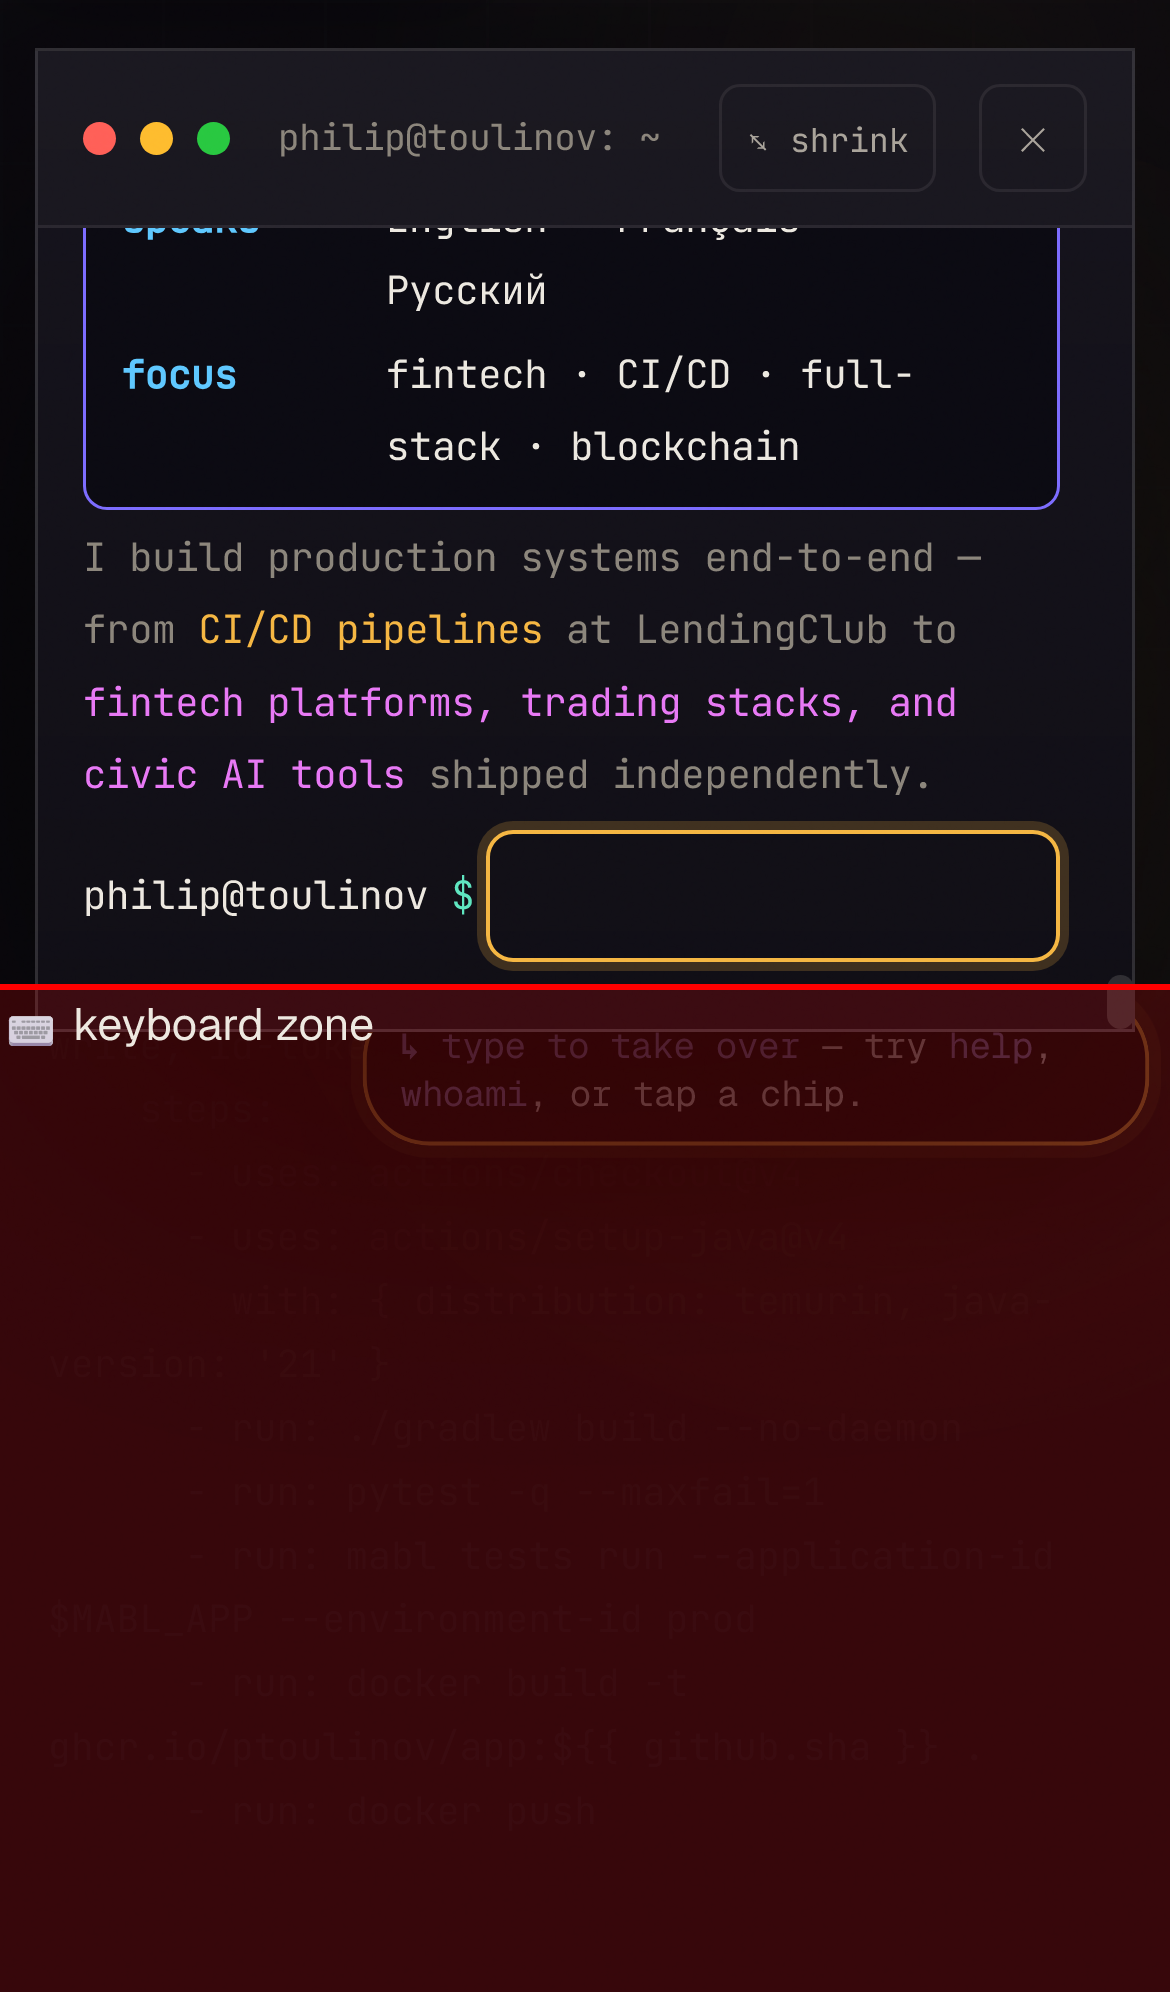
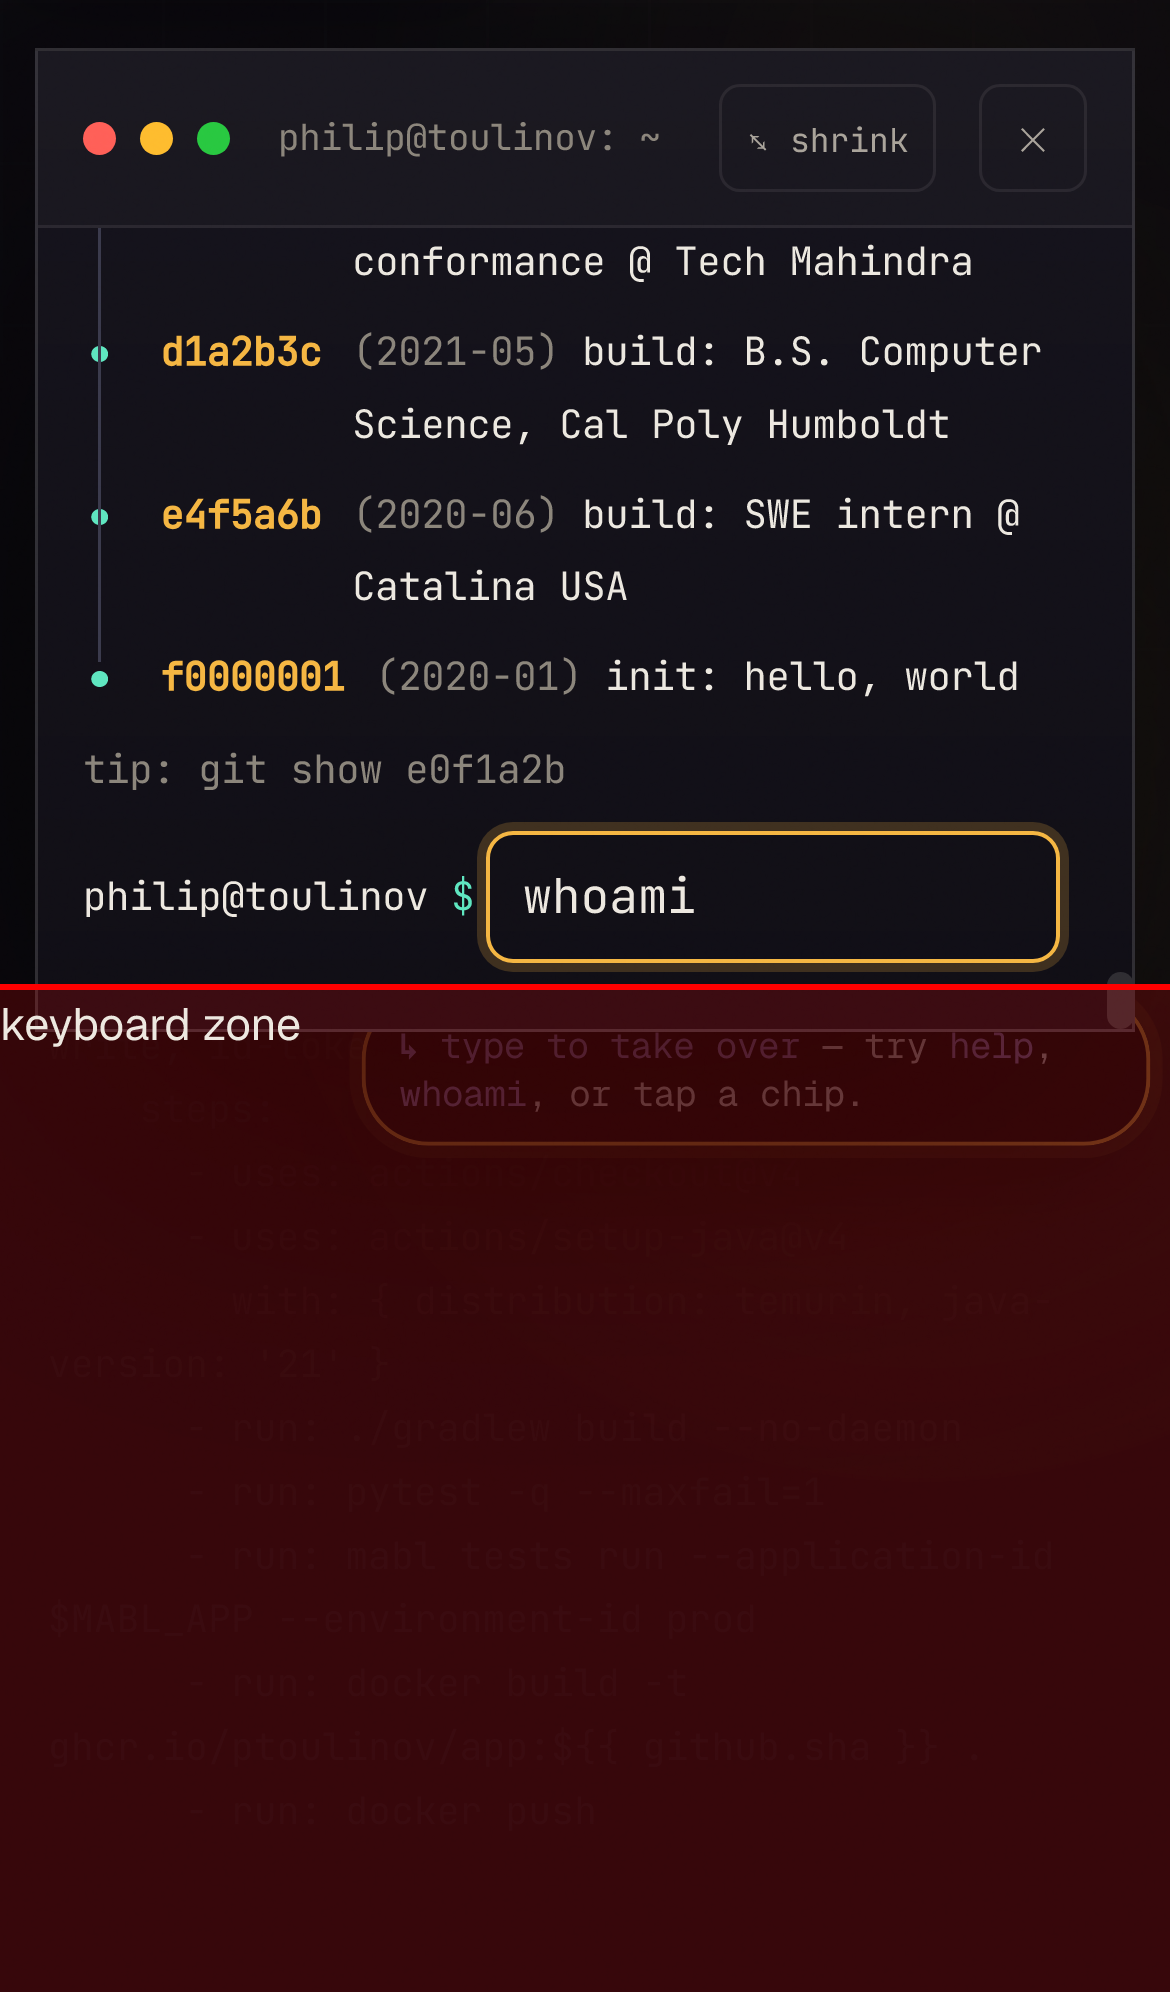
Terminal: stick the input to the scroll bottom (race-free keyboard fix)
Follow-up to the JS-pin keyboard fix, which was timing-fragile: it raced the
soft keyboard's multi-step open animation and could leave the input floating
mid-shell. Replace it with the structural fix — `.terminal__line` gets
`position:sticky; bottom:0` while the shell is height-constrained (floating
overlay or .kbd-term keyboard mode), so the input stays glued to the bottom of
the scroll viewport, above the keyboard, regardless of scroll position or
reflow timing. No JS race.

termKeyboardFit keeps only a one-shot output nudge-to-bottom on keyboard open
(so the latest lines sit just above the input); the brittle stickKbd listener
+ per-resize pinning are gone. Verified with the fake-visualViewport harness:
input visible on open AND while scrolling the output up (the sticky guarantee
the old pin couldn't give).

diff --git a/scripts/main.js b/scripts/main.js
@@ -2198,21 +2198,16 @@ function initTerminal(){
     // a soft keyboard shrinks visualViewport — but so does pinch-zoom; only treat it as the
     // keyboard when NOT pinch-zoomed (scale ~1), so zooming can't false-trigger keyboard mode.
     var kbOpen = function(){ return (vv.scale || 1) <= 1.05 && (window.innerHeight - vv.height) > 120; };
-    // the input is the LAST child INSIDE #heroTermScroll, so it's only visible at the bottom. The soft
-    // keyboard shrinks the shell in several resize steps, each undoing an earlier scroll — so keep the
-    // input pinned to the bottom while the keyboard is up. `stickKbd` releases the moment the user
-    // scrolls up to read history (and re-engages when they return to the bottom). rAF so scrollHeight is
-    // read after the new height lays out.
-    var stickKbd = false;
-    // rAF handles the settled case; the short timeout re-pins after the keyboard's RAPID multi-step
-    // resize animation finishes laying out (a single rAF reads a stale scrollHeight mid-animation).
-    var pinBottom = function(){ if (!scroll || !stickKbd) return;
-      requestAnimationFrame(function(){ if (stickKbd) scroll.scrollTop = scroll.scrollHeight; });
-      setTimeout(function(){ if (stickKbd) scroll.scrollTop = scroll.scrollHeight; }, 140); };
-    function size(){ term.style.top = (vv.offsetTop || 0) + 'px'; term.style.height = vv.height + 'px'; pinBottom(); }
-    function activate(){ active = true; stickKbd = true; root.classList.add('kbd-term');
-      try { if (typeof lenis !== 'undefined' && lenis) lenis.stop(); } catch (e) {} size(); }
-    function deactivate(){ active = false; stickKbd = false; root.classList.remove('kbd-term');
+    function size(){ term.style.top = (vv.offsetTop || 0) + 'px'; term.style.height = vv.height + 'px'; }
+    // the input row is CSS-stuck to the bottom of #heroTermScroll (see .terminal__line), so it stays
+    // visible above the keyboard no matter what. On open, also nudge the OUTPUT to the bottom so the
+    // latest lines sit just above the input (rAF + a settle timeout for the keyboard's reflow).
+    var pinOutput = function(){ if (!scroll) return;
+      requestAnimationFrame(function(){ scroll.scrollTop = scroll.scrollHeight; });
+      setTimeout(function(){ scroll.scrollTop = scroll.scrollHeight; }, 180); };
+    function activate(){ active = true; root.classList.add('kbd-term');
+      try { if (typeof lenis !== 'undefined' && lenis) lenis.stop(); } catch (e) {} size(); pinOutput(); }
+    function deactivate(){ active = false; root.classList.remove('kbd-term');
       term.style.top = ''; term.style.height = '';
       try { if (typeof lenis !== 'undefined' && lenis) lenis.start(); } catch (e) {} }
     function update(){
@@ -2223,8 +2218,6 @@ function initTerminal(){
     input.addEventListener('blur', function(){ want = false; deactivate(); });
     vv.addEventListener('resize', update);
     vv.addEventListener('scroll', update);
-    // release the keyboard-stick when the user scrolls up to read; re-engage at the bottom
-    if (scroll) scroll.addEventListener('scroll', function(){ if (active) stickKbd = (scroll.scrollHeight - scroll.scrollTop - scroll.clientHeight) < 60; }, { passive: true });
   })();
 
   // collapse the big ASCII name banner while the visitor is typing — clearer view of the live shell

diff --git a/styles/main.css b/styles/main.css
@@ -861,6 +861,12 @@ body.rollback::before{ content:"⟲ rollback mode · git revert HEAD~1 — press
 .heroterm.is-floating .term-chips,
 .heroterm.is-floating .heroterm__banner{ flex:0 0 auto; }
 .heroterm.is-floating .terminal__scroll{ height:auto; flex:1 1 auto; min-height:64px; }
+/* the input is the last child INSIDE the scroll, so when the shell is height-constrained (floating
+   overlay, or the soft keyboard via .kbd-term) stick it to the bottom of the scroll viewport — it
+   stays visible above the keyboard regardless of scroll position, with no JS pin to race the reflow. */
+.heroterm.is-floating .terminal__line,
+html.kbd-term #heroTerm .terminal__line{ position:sticky; bottom:0; z-index:1; margin-top:0;
+  padding-top:.5em; background:linear-gradient(to top, var(--card) 78%, transparent); }
 @media (max-height:430px){ .heroterm.is-floating .heroterm__banner{ display:none; } }   /* tiny landscape — name banner yields to the shell */
 body.term-frozen{ overflow:hidden; }
 